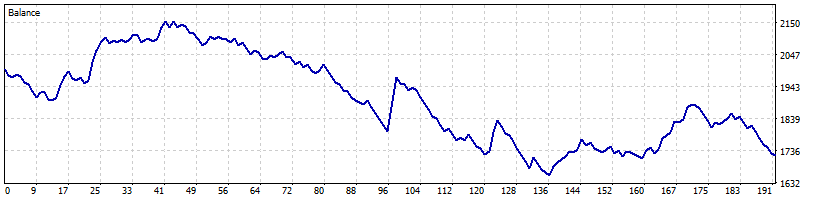
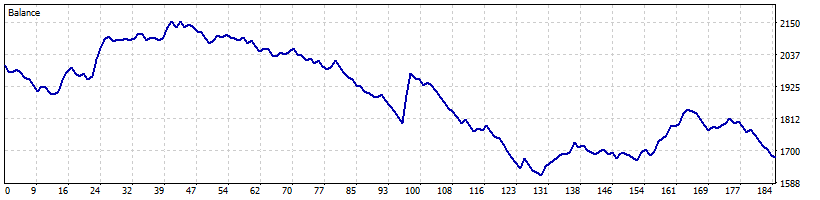
docs: refresh default real-tick report

diff --git a/reports/default-2026-real-ticks/index.html b/reports/default-2026-real-ticks/index.html
@@ -86,13 +86,13 @@ tbody tr:last-child th,tbody tr:last-child td{border-bottom:0}
 <div class="band spacer" aria-hidden="true"><div class="frame"></div></div>
 <section class="band"><div class="frame"><p class="section-title"><span class="slashes">//</span> Backtest Report</p><div class="intro"><h1>Default profile - XAUUSDm M1 vs M5, real ticks Jan-Sep 2026</h1><p class="lead"><b>Nyao Scalper v45.0</b> with <b>settings/default.set</b> on XAUUSDm M1, M5, real ticks, 2026-01 to 2026-09. Each month is a separate run starting from the same deposit.</p></div></div></section>
 <div class="band spacer" aria-hidden="true"><div class="frame"></div></div>
-<section class="band"><div class="frame"><h2 class="section-title"><span class="slashes">//</span> Setup</h2><div class="cells setup"><div><span class="label">EA</span><span class="value">Nyao Scalper v45.0 (nyao_scalper.mq5)</span></div><div><span class="label">Settings</span><span class="value">settings/default.set</span></div><div><span class="label">Git commit</span><span class="value">eeb53ce</span></div><div><span class="label">Symbol / timeframes</span><span class="value">XAUUSDm / M1, M5</span></div><div><span class="label">Tick data</span><span class="value">Every tick based on real ticks</span></div><div><span class="label">Deposit / leverage</span><span class="value">2,000 USD / 1:500</span></div><div><span class="label">Runs</span><span class="value">One run per month, each starting from a fresh deposit</span></div><div><span class="label">Generated</span><span class="value">2026-10-13 02:27 with tools/backtest/nyao_backtest.py</span></div></div></div></section>
+<section class="band"><div class="frame"><h2 class="section-title"><span class="slashes">//</span> Setup</h2><div class="cells setup"><div><span class="label">EA</span><span class="value">Nyao Scalper v45.0 (nyao_scalper.mq5)</span></div><div><span class="label">Settings</span><span class="value">settings/default.set</span></div><div><span class="label">Git commit</span><span class="value">51b4596</span></div><div><span class="label">Symbol / timeframes</span><span class="value">XAUUSDm / M1, M5</span></div><div><span class="label">Tick data</span><span class="value">Every tick based on real ticks</span></div><div><span class="label">Deposit / leverage</span><span class="value">2,000 USD / 1:500</span></div><div><span class="label">Runs</span><span class="value">One run per month, each starting from a fresh deposit</span></div><div><span class="label">Generated</span><span class="value">2026-10-13 11:12 with tools/backtest/nyao_backtest.py</span></div></div></div></section>
 <div class="band spacer" aria-hidden="true"><div class="frame"></div></div>
-<section class="band"><div class="frame"><h2 class="section-title"><span class="slashes">//</span> Summary</h2><div class="cells summary"><div><span class="tag">M1</span><span class="big neg">-14.7%</span><span class="muted">Total return (sum of runs)</span><dl class="metrics"><div><dt>Profitable runs</dt><dd>4 / 9</dd></div><div><dt>Best / worst run</dt><dd>+24.0% / -25.8%</dd></div><div><dt>Max drawdown</dt><dd>37.3%</dd></div><div><dt>Profit factor</dt><dd>0.98</dd></div><div><dt>Trades</dt><dd>1,618</dd></div><div><dt>Win rate</dt><dd>42%</dd></div><div><dt>Avg win / loss</dt><dd>$20.07 / -$14.64</dd></div><div><dt>Tick data</dt><dd>100% real ticks</dd></div></dl></div><div><span class="tag">M5</span><span class="big pos">+50.1%</span><span class="muted">Total return (sum of runs)</span><dl class="metrics"><div><dt>Profitable runs</dt><dd>5 / 9</dd></div><div><dt>Best / worst run</dt><dd>+34.1% / -7.8%</dd></div><div><dt>Max drawdown</dt><dd>20.3%</dd></div><div><dt>Profit factor</dt><dd>1.15</dd></div><div><dt>Trades</dt><dd>824</dd></div><div><dt>Win rate</dt><dd>42%</dd></div><div><dt>Avg win / loss</dt><dd>$21.84 / -$13.94</dd></div><div><dt>Tick data</dt><dd>100% real ticks</dd></div></dl></div></div></div></section>
+<section class="band"><div class="frame"><h2 class="section-title"><span class="slashes">//</span> Summary</h2><div class="cells summary"><div><span class="tag">M1</span><span class="big pos">+7.5%</span><span class="muted">Total return (sum of runs)</span><dl class="metrics"><div><dt>Profitable runs</dt><dd>5 / 9</dd></div><div><dt>Best / worst run</dt><dd>+24.0% / -17.3%</dd></div><div><dt>Max drawdown</dt><dd>34.1%</dd></div><div><dt>Profit factor</dt><dd>1.01</dd></div><div><dt>Trades</dt><dd>1,555</dd></div><div><dt>Win rate</dt><dd>42%</dd></div><div><dt>Avg win / loss</dt><dd>$20.15 / -$14.58</dd></div><div><dt>Tick data</dt><dd>100% real ticks</dd></div></dl></div><div><span class="tag">M5</span><span class="big pos">+51.4%</span><span class="muted">Total return (sum of runs)</span><dl class="metrics"><div><dt>Profitable runs</dt><dd>5 / 9</dd></div><div><dt>Best / worst run</dt><dd>+34.1% / -7.8%</dd></div><div><dt>Max drawdown</dt><dd>20.3%</dd></div><div><dt>Profit factor</dt><dd>1.16</dd></div><div><dt>Trades</dt><dd>784</dd></div><div><dt>Win rate</dt><dd>43%</dd></div><div><dt>Avg win / loss</dt><dd>$21.84 / -$14.08</dd></div><div><dt>Tick data</dt><dd>100% real ticks</dd></div></dl></div></div></div></section>
 <div class="band spacer" aria-hidden="true"><div class="frame"></div></div>
-<section class="band"><div class="frame"><h2 class="section-title"><span class="slashes">//</span> Results per Run</h2><div class="table-wrap"><table><thead><tr><th>Run</th><th>M1</th><th>M5</th></tr></thead><tbody><tr><th>2026-01</th><td><span class="ret pos">+24.0%</span><span class="sub">DD 12% · 180 trades</span></td><td><span class="ret pos">+34.1%</span><span class="sub">DD 6% · 109 trades</span></td></tr><tr><th>2026-02</th><td><span class="ret neg">-17.3%</span><span class="sub">DD 34% · 226 trades</span></td><td><span class="ret neg">-6.9%</span><span class="sub">DD 20% · 97 trades</span></td></tr><tr><th>2026-03</th><td><span class="ret neg">-2.4%</span><span class="sub">DD 28% · 296 trades</span></td><td><span class="ret pos">+12.7%</span><span class="sub">DD 16% · 135 trades</span></td></tr><tr><th>2026-04</th><td><span class="ret neg">-14.0%</span><span class="sub">DD 24% · 191 trades</span></td><td><span class="ret neg">-6.5%</span><span class="sub">DD 16% · 84 trades</span></td></tr><tr><th>2026-05</th><td><span class="ret pos">+4.9%</span><span class="sub">DD 16% · 140 trades</span></td><td><span class="ret pos">+7.7%</span><span class="sub">DD 9% · 74 trades</span></td></tr><tr><th>2026-06</th><td><span class="ret pos">+19.2%</span><span class="sub">DD 17% · 188 trades</span></td><td><span class="ret pos">+13.2%</span><span class="sub">DD 12% · 116 trades</span></td></tr><tr><th>2026-07</th><td><span class="ret neg">-3.8%</span><span class="sub">DD 15% · 124 trades</span></td><td><span class="ret pos">+9.5%</span><span class="sub">DD 6% · 74 trades</span></td></tr><tr><th>2026-08</th><td><span class="ret pos">+0.5%</span><span class="sub">DD 13% · 137 trades</span></td><td><span class="ret neg">-7.8%</span><span class="sub">DD 15% · 68 trades</span></td></tr><tr><th>2026-09</th><td><span class="ret neg">-25.8%</span><span class="sub">DD 37% · 136 trades</span></td><td><span class="ret neg">-5.9%</span><span class="sub">DD 14% · 67 trades</span></td></tr></tbody></table></div></div></section>
+<section class="band"><div class="frame"><h2 class="section-title"><span class="slashes">//</span> Results per Run</h2><div class="table-wrap"><table><thead><tr><th>Run</th><th>M1</th><th>M5</th></tr></thead><tbody><tr><th>2026-01</th><td><span class="ret pos">+24.0%</span><span class="sub">DD 12% · 180 trades</span></td><td><span class="ret pos">+34.1%</span><span class="sub">DD 6% · 109 trades</span></td></tr><tr><th>2026-02</th><td><span class="ret neg">-17.3%</span><span class="sub">DD 34% · 226 trades</span></td><td><span class="ret neg">-6.9%</span><span class="sub">DD 20% · 97 trades</span></td></tr><tr><th>2026-03</th><td><span class="ret pos">+2.0%</span><span class="sub">DD 21% · 281 trades</span></td><td><span class="ret pos">+9.5%</span><span class="sub">DD 14% · 114 trades</span></td></tr><tr><th>2026-04</th><td><span class="ret neg">-16.1%</span><span class="sub">DD 26% · 184 trades</span></td><td><span class="ret neg">-4.8%</span><span class="sub">DD 14% · 77 trades</span></td></tr><tr><th>2026-05</th><td><span class="ret pos">+8.6%</span><span class="sub">DD 13% · 127 trades</span></td><td><span class="ret pos">+8.7%</span><span class="sub">DD 7% · 75 trades</span></td></tr><tr><th>2026-06</th><td><span class="ret pos">+19.2%</span><span class="sub">DD 17% · 188 trades</span></td><td><span class="ret pos">+13.2%</span><span class="sub">DD 12% · 116 trades</span></td></tr><tr><th>2026-07</th><td><span class="ret neg">-3.8%</span><span class="sub">DD 15% · 124 trades</span></td><td><span class="ret pos">+9.5%</span><span class="sub">DD 6% · 74 trades</span></td></tr><tr><th>2026-08</th><td><span class="ret pos">+0.5%</span><span class="sub">DD 13% · 137 trades</span></td><td><span class="ret neg">-7.8%</span><span class="sub">DD 15% · 68 trades</span></td></tr><tr><th>2026-09</th><td><span class="ret neg">-9.5%</span><span class="sub">DD 21% · 108 trades</span></td><td><span class="ret neg">-4.0%</span><span class="sub">DD 11% · 54 trades</span></td></tr></tbody></table></div></div></section>
 <div class="band spacer" aria-hidden="true"><div class="frame"></div></div>
-<section class="band"><div class="frame"><h2 class="section-title"><span class="slashes">//</span> Balance Graphs</h2><h3 class="tf">M1</h3><div class="cells graphs"><figure><figcaption><b>2026-01</b><span class="pos">+24.0%</span><span class="faint">DD 12% · 180 trades</span></figcaption><img src="graphs/M1_2026-01.png" alt="M1 2026-01 balance graph" loading="lazy"></figure><figure><figcaption><b>2026-02</b><span class="neg">-17.3%</span><span class="faint">DD 34% · 226 trades</span></figcaption><img src="graphs/M1_2026-02.png" alt="M1 2026-02 balance graph" loading="lazy"></figure><figure><figcaption><b>2026-03</b><span class="neg">-2.4%</span><span class="faint">DD 28% · 296 trades</span></figcaption><img src="graphs/M1_2026-03.png" alt="M1 2026-03 balance graph" loading="lazy"></figure><figure><figcaption><b>2026-04</b><span class="neg">-14.0%</span><span class="faint">DD 24% · 191 trades</span></figcaption><img src="graphs/M1_2026-04.png" alt="M1 2026-04 balance graph" loading="lazy"></figure><figure><figcaption><b>2026-05</b><span class="pos">+4.9%</span><span class="faint">DD 16% · 140 trades</span></figcaption><img src="graphs/M1_2026-05.png" alt="M1 2026-05 balance graph" loading="lazy"></figure><figure><figcaption><b>2026-06</b><span class="pos">+19.2%</span><span class="faint">DD 17% · 188 trades</span></figcaption><img src="graphs/M1_2026-06.png" alt="M1 2026-06 balance graph" loading="lazy"></figure><figure><figcaption><b>2026-07</b><span class="neg">-3.8%</span><span class="faint">DD 15% · 124 trades</span></figcaption><img src="graphs/M1_2026-07.png" alt="M1 2026-07 balance graph" loading="lazy"></figure><figure><figcaption><b>2026-08</b><span class="pos">+0.5%</span><span class="faint">DD 13% · 137 trades</span></figcaption><img src="graphs/M1_2026-08.png" alt="M1 2026-08 balance graph" loading="lazy"></figure><figure><figcaption><b>2026-09</b><span class="neg">-25.8%</span><span class="faint">DD 37% · 136 trades</span></figcaption><img src="graphs/M1_2026-09.png" alt="M1 2026-09 balance graph" loading="lazy"></figure></div><h3 class="tf">M5</h3><div class="cells graphs"><figure><figcaption><b>2026-01</b><span class="pos">+34.1%</span><span class="faint">DD 6% · 109 trades</span></figcaption><img src="graphs/M5_2026-01.png" alt="M5 2026-01 balance graph" loading="lazy"></figure><figure><figcaption><b>2026-02</b><span class="neg">-6.9%</span><span class="faint">DD 20% · 97 trades</span></figcaption><img src="graphs/M5_2026-02.png" alt="M5 2026-02 balance graph" loading="lazy"></figure><figure><figcaption><b>2026-03</b><span class="pos">+12.7%</span><span class="faint">DD 16% · 135 trades</span></figcaption><img src="graphs/M5_2026-03.png" alt="M5 2026-03 balance graph" loading="lazy"></figure><figure><figcaption><b>2026-04</b><span class="neg">-6.5%</span><span class="faint">DD 16% · 84 trades</span></figcaption><img src="graphs/M5_2026-04.png" alt="M5 2026-04 balance graph" loading="lazy"></figure><figure><figcaption><b>2026-05</b><span class="pos">+7.7%</span><span class="faint">DD 9% · 74 trades</span></figcaption><img src="graphs/M5_2026-05.png" alt="M5 2026-05 balance graph" loading="lazy"></figure><figure><figcaption><b>2026-06</b><span class="pos">+13.2%</span><span class="faint">DD 12% · 116 trades</span></figcaption><img src="graphs/M5_2026-06.png" alt="M5 2026-06 balance graph" loading="lazy"></figure><figure><figcaption><b>2026-07</b><span class="pos">+9.5%</span><span class="faint">DD 6% · 74 trades</span></figcaption><img src="graphs/M5_2026-07.png" alt="M5 2026-07 balance graph" loading="lazy"></figure><figure><figcaption><b>2026-08</b><span class="neg">-7.8%</span><span class="faint">DD 15% · 68 trades</span></figcaption><img src="graphs/M5_2026-08.png" alt="M5 2026-08 balance graph" loading="lazy"></figure><figure><figcaption><b>2026-09</b><span class="neg">-5.9%</span><span class="faint">DD 14% · 67 trades</span></figcaption><img src="graphs/M5_2026-09.png" alt="M5 2026-09 balance graph" loading="lazy"></figure></div></div></section>
+<section class="band"><div class="frame"><h2 class="section-title"><span class="slashes">//</span> Balance Graphs</h2><h3 class="tf">M1</h3><div class="cells graphs"><figure><figcaption><b>2026-01</b><span class="pos">+24.0%</span><span class="faint">DD 12% · 180 trades</span></figcaption><img src="graphs/M1_2026-01.png" alt="M1 2026-01 balance graph" loading="lazy"></figure><figure><figcaption><b>2026-02</b><span class="neg">-17.3%</span><span class="faint">DD 34% · 226 trades</span></figcaption><img src="graphs/M1_2026-02.png" alt="M1 2026-02 balance graph" loading="lazy"></figure><figure><figcaption><b>2026-03</b><span class="pos">+2.0%</span><span class="faint">DD 21% · 281 trades</span></figcaption><img src="graphs/M1_2026-03.png" alt="M1 2026-03 balance graph" loading="lazy"></figure><figure><figcaption><b>2026-04</b><span class="neg">-16.1%</span><span class="faint">DD 26% · 184 trades</span></figcaption><img src="graphs/M1_2026-04.png" alt="M1 2026-04 balance graph" loading="lazy"></figure><figure><figcaption><b>2026-05</b><span class="pos">+8.6%</span><span class="faint">DD 13% · 127 trades</span></figcaption><img src="graphs/M1_2026-05.png" alt="M1 2026-05 balance graph" loading="lazy"></figure><figure><figcaption><b>2026-06</b><span class="pos">+19.2%</span><span class="faint">DD 17% · 188 trades</span></figcaption><img src="graphs/M1_2026-06.png" alt="M1 2026-06 balance graph" loading="lazy"></figure><figure><figcaption><b>2026-07</b><span class="neg">-3.8%</span><span class="faint">DD 15% · 124 trades</span></figcaption><img src="graphs/M1_2026-07.png" alt="M1 2026-07 balance graph" loading="lazy"></figure><figure><figcaption><b>2026-08</b><span class="pos">+0.5%</span><span class="faint">DD 13% · 137 trades</span></figcaption><img src="graphs/M1_2026-08.png" alt="M1 2026-08 balance graph" loading="lazy"></figure><figure><figcaption><b>2026-09</b><span class="neg">-9.5%</span><span class="faint">DD 21% · 108 trades</span></figcaption><img src="graphs/M1_2026-09.png" alt="M1 2026-09 balance graph" loading="lazy"></figure></div><h3 class="tf">M5</h3><div class="cells graphs"><figure><figcaption><b>2026-01</b><span class="pos">+34.1%</span><span class="faint">DD 6% · 109 trades</span></figcaption><img src="graphs/M5_2026-01.png" alt="M5 2026-01 balance graph" loading="lazy"></figure><figure><figcaption><b>2026-02</b><span class="neg">-6.9%</span><span class="faint">DD 20% · 97 trades</span></figcaption><img src="graphs/M5_2026-02.png" alt="M5 2026-02 balance graph" loading="lazy"></figure><figure><figcaption><b>2026-03</b><span class="pos">+9.5%</span><span class="faint">DD 14% · 114 trades</span></figcaption><img src="graphs/M5_2026-03.png" alt="M5 2026-03 balance graph" loading="lazy"></figure><figure><figcaption><b>2026-04</b><span class="neg">-4.8%</span><span class="faint">DD 14% · 77 trades</span></figcaption><img src="graphs/M5_2026-04.png" alt="M5 2026-04 balance graph" loading="lazy"></figure><figure><figcaption><b>2026-05</b><span class="pos">+8.7%</span><span class="faint">DD 7% · 75 trades</span></figcaption><img src="graphs/M5_2026-05.png" alt="M5 2026-05 balance graph" loading="lazy"></figure><figure><figcaption><b>2026-06</b><span class="pos">+13.2%</span><span class="faint">DD 12% · 116 trades</span></figcaption><img src="graphs/M5_2026-06.png" alt="M5 2026-06 balance graph" loading="lazy"></figure><figure><figcaption><b>2026-07</b><span class="pos">+9.5%</span><span class="faint">DD 6% · 74 trades</span></figcaption><img src="graphs/M5_2026-07.png" alt="M5 2026-07 balance graph" loading="lazy"></figure><figure><figcaption><b>2026-08</b><span class="neg">-7.8%</span><span class="faint">DD 15% · 68 trades</span></figcaption><img src="graphs/M5_2026-08.png" alt="M5 2026-08 balance graph" loading="lazy"></figure><figure><figcaption><b>2026-09</b><span class="neg">-4.0%</span><span class="faint">DD 11% · 54 trades</span></figcaption><img src="graphs/M5_2026-09.png" alt="M5 2026-09 balance graph" loading="lazy"></figure></div></div></section>
 <div class="band spacer" aria-hidden="true"><div class="frame"></div></div>
 <section class="band"><div class="frame"><h2 class="section-title"><span class="slashes">//</span> Notes</h2><div class="note"><p>Total return is the sum of the monthly returns: each month starts from the same deposit, so it is not compounded.</p><p>Backtests are not a guarantee of future results. Trading Forex and CFDs involves significant risk; forward-test on a demo account before using real money.</p></div></div></section>
 <div class="band spacer" aria-hidden="true"><div class="frame"></div></div>

diff --git a/reports/default-2026-real-ticks/summary.md b/reports/default-2026-real-ticks/summary.md
@@ -4,12 +4,12 @@
 |---|---|
 | EA | Nyao Scalper v45.0 (`nyao_scalper.mq5`) |
 | Settings | `settings/default.set` |
-| Git commit | eeb53ce |
+| Git commit | 51b4596 |
 | Symbol / timeframes | XAUUSDm / M1, M5 |
 | Tick data | Every tick based on real ticks |
 | Deposit / leverage | 2,000 USD / 1:500 |
 | Runs | One run per month, each starting from a fresh deposit |
-| Generated | 2026-10-13 02:27 with `tools/backtest/nyao_backtest.py` |
+| Generated | 2026-10-13 11:12 with `tools/backtest/nyao_backtest.py` |
 
 ## Summary
 
@@ -17,8 +17,8 @@ Total return is the sum of the monthly returns (each month starts from the same 
 
 | Timeframe | Total return | Profitable | Best / worst run | Max drawdown | Trades | Win rate | Avg win / loss | Profit factor | Tick data |
 |---|---|---|---|---|---|---|---|---|---|
-| M1 | -14.7% | 4/9 | +24.0% / -25.8% | 37.3% | 1,618 | 42% | $20.07 / -$14.64 | 0.98 | 100% real ticks |
-| M5 | +50.1% | 5/9 | +34.1% / -7.8% | 20.3% | 824 | 42% | $21.84 / -$13.94 | 1.15 | 100% real ticks |
+| M1 | +7.5% | 5/9 | +24.0% / -17.3% | 34.1% | 1,555 | 42% | $20.15 / -$14.58 | 1.01 | 100% real ticks |
+| M5 | +51.4% | 5/9 | +34.1% / -7.8% | 20.3% | 784 | 43% | $21.84 / -$14.08 | 1.16 | 100% real ticks |
 
 ## Results per run
 
@@ -26,13 +26,13 @@ Total return is the sum of the monthly returns (each month starts from the same 
 |---|---|---|
 | 2026-01 | +24.0% (DD 12%, 180 trades) | +34.1% (DD 6%, 109 trades) |
 | 2026-02 | -17.3% (DD 34%, 226 trades) | -6.9% (DD 20%, 97 trades) |
-| 2026-03 | -2.4% (DD 28%, 296 trades) | +12.7% (DD 16%, 135 trades) |
-| 2026-04 | -14.0% (DD 24%, 191 trades) | -6.5% (DD 16%, 84 trades) |
-| 2026-05 | +4.9% (DD 16%, 140 trades) | +7.7% (DD 9%, 74 trades) |
+| 2026-03 | +2.0% (DD 21%, 281 trades) | +9.5% (DD 14%, 114 trades) |
+| 2026-04 | -16.1% (DD 26%, 184 trades) | -4.8% (DD 14%, 77 trades) |
+| 2026-05 | +8.6% (DD 13%, 127 trades) | +8.7% (DD 7%, 75 trades) |
 | 2026-06 | +19.2% (DD 17%, 188 trades) | +13.2% (DD 12%, 116 trades) |
 | 2026-07 | -3.8% (DD 15%, 124 trades) | +9.5% (DD 6%, 74 trades) |
 | 2026-08 | +0.5% (DD 13%, 137 trades) | -7.8% (DD 15%, 68 trades) |
-| 2026-09 | -25.8% (DD 37%, 136 trades) | -5.9% (DD 14%, 67 trades) |
+| 2026-09 | -9.5% (DD 21%, 108 trades) | -4.0% (DD 11%, 54 trades) |
 
 ## Balance graphs
 
@@ -46,15 +46,15 @@ Total return is the sum of the monthly returns (each month starts from the same 
 
 ![M1 2026-02](graphs/M1_2026-02.png)
 
-**2026-03** -2.4%
+**2026-03** +2.0%
 
 ![M1 2026-03](graphs/M1_2026-03.png)
 
-**2026-04** -14.0%
+**2026-04** -16.1%
 
 ![M1 2026-04](graphs/M1_2026-04.png)
 
-**2026-05** +4.9%
+**2026-05** +8.6%
 
 ![M1 2026-05](graphs/M1_2026-05.png)
 
@@ -70,7 +70,7 @@ Total return is the sum of the monthly returns (each month starts from the same 
 
 ![M1 2026-08](graphs/M1_2026-08.png)
 
-**2026-09** -25.8%
+**2026-09** -9.5%
 
 ![M1 2026-09](graphs/M1_2026-09.png)
 
@@ -84,15 +84,15 @@ Total return is the sum of the monthly returns (each month starts from the same 
 
 ![M5 2026-02](graphs/M5_2026-02.png)
 
-**2026-03** +12.7%
+**2026-03** +9.5%
 
 ![M5 2026-03](graphs/M5_2026-03.png)
 
-**2026-04** -6.5%
+**2026-04** -4.8%
 
 ![M5 2026-04](graphs/M5_2026-04.png)
 
-**2026-05** +7.7%
+**2026-05** +8.7%
 
 ![M5 2026-05](graphs/M5_2026-05.png)
 
@@ -108,6 +108,6 @@ Total return is the sum of the monthly returns (each month starts from the same 
 
 ![M5 2026-08](graphs/M5_2026-08.png)
 
-**2026-09** -5.9%
+**2026-09** -4.0%
 
 ![M5 2026-09](graphs/M5_2026-09.png)
